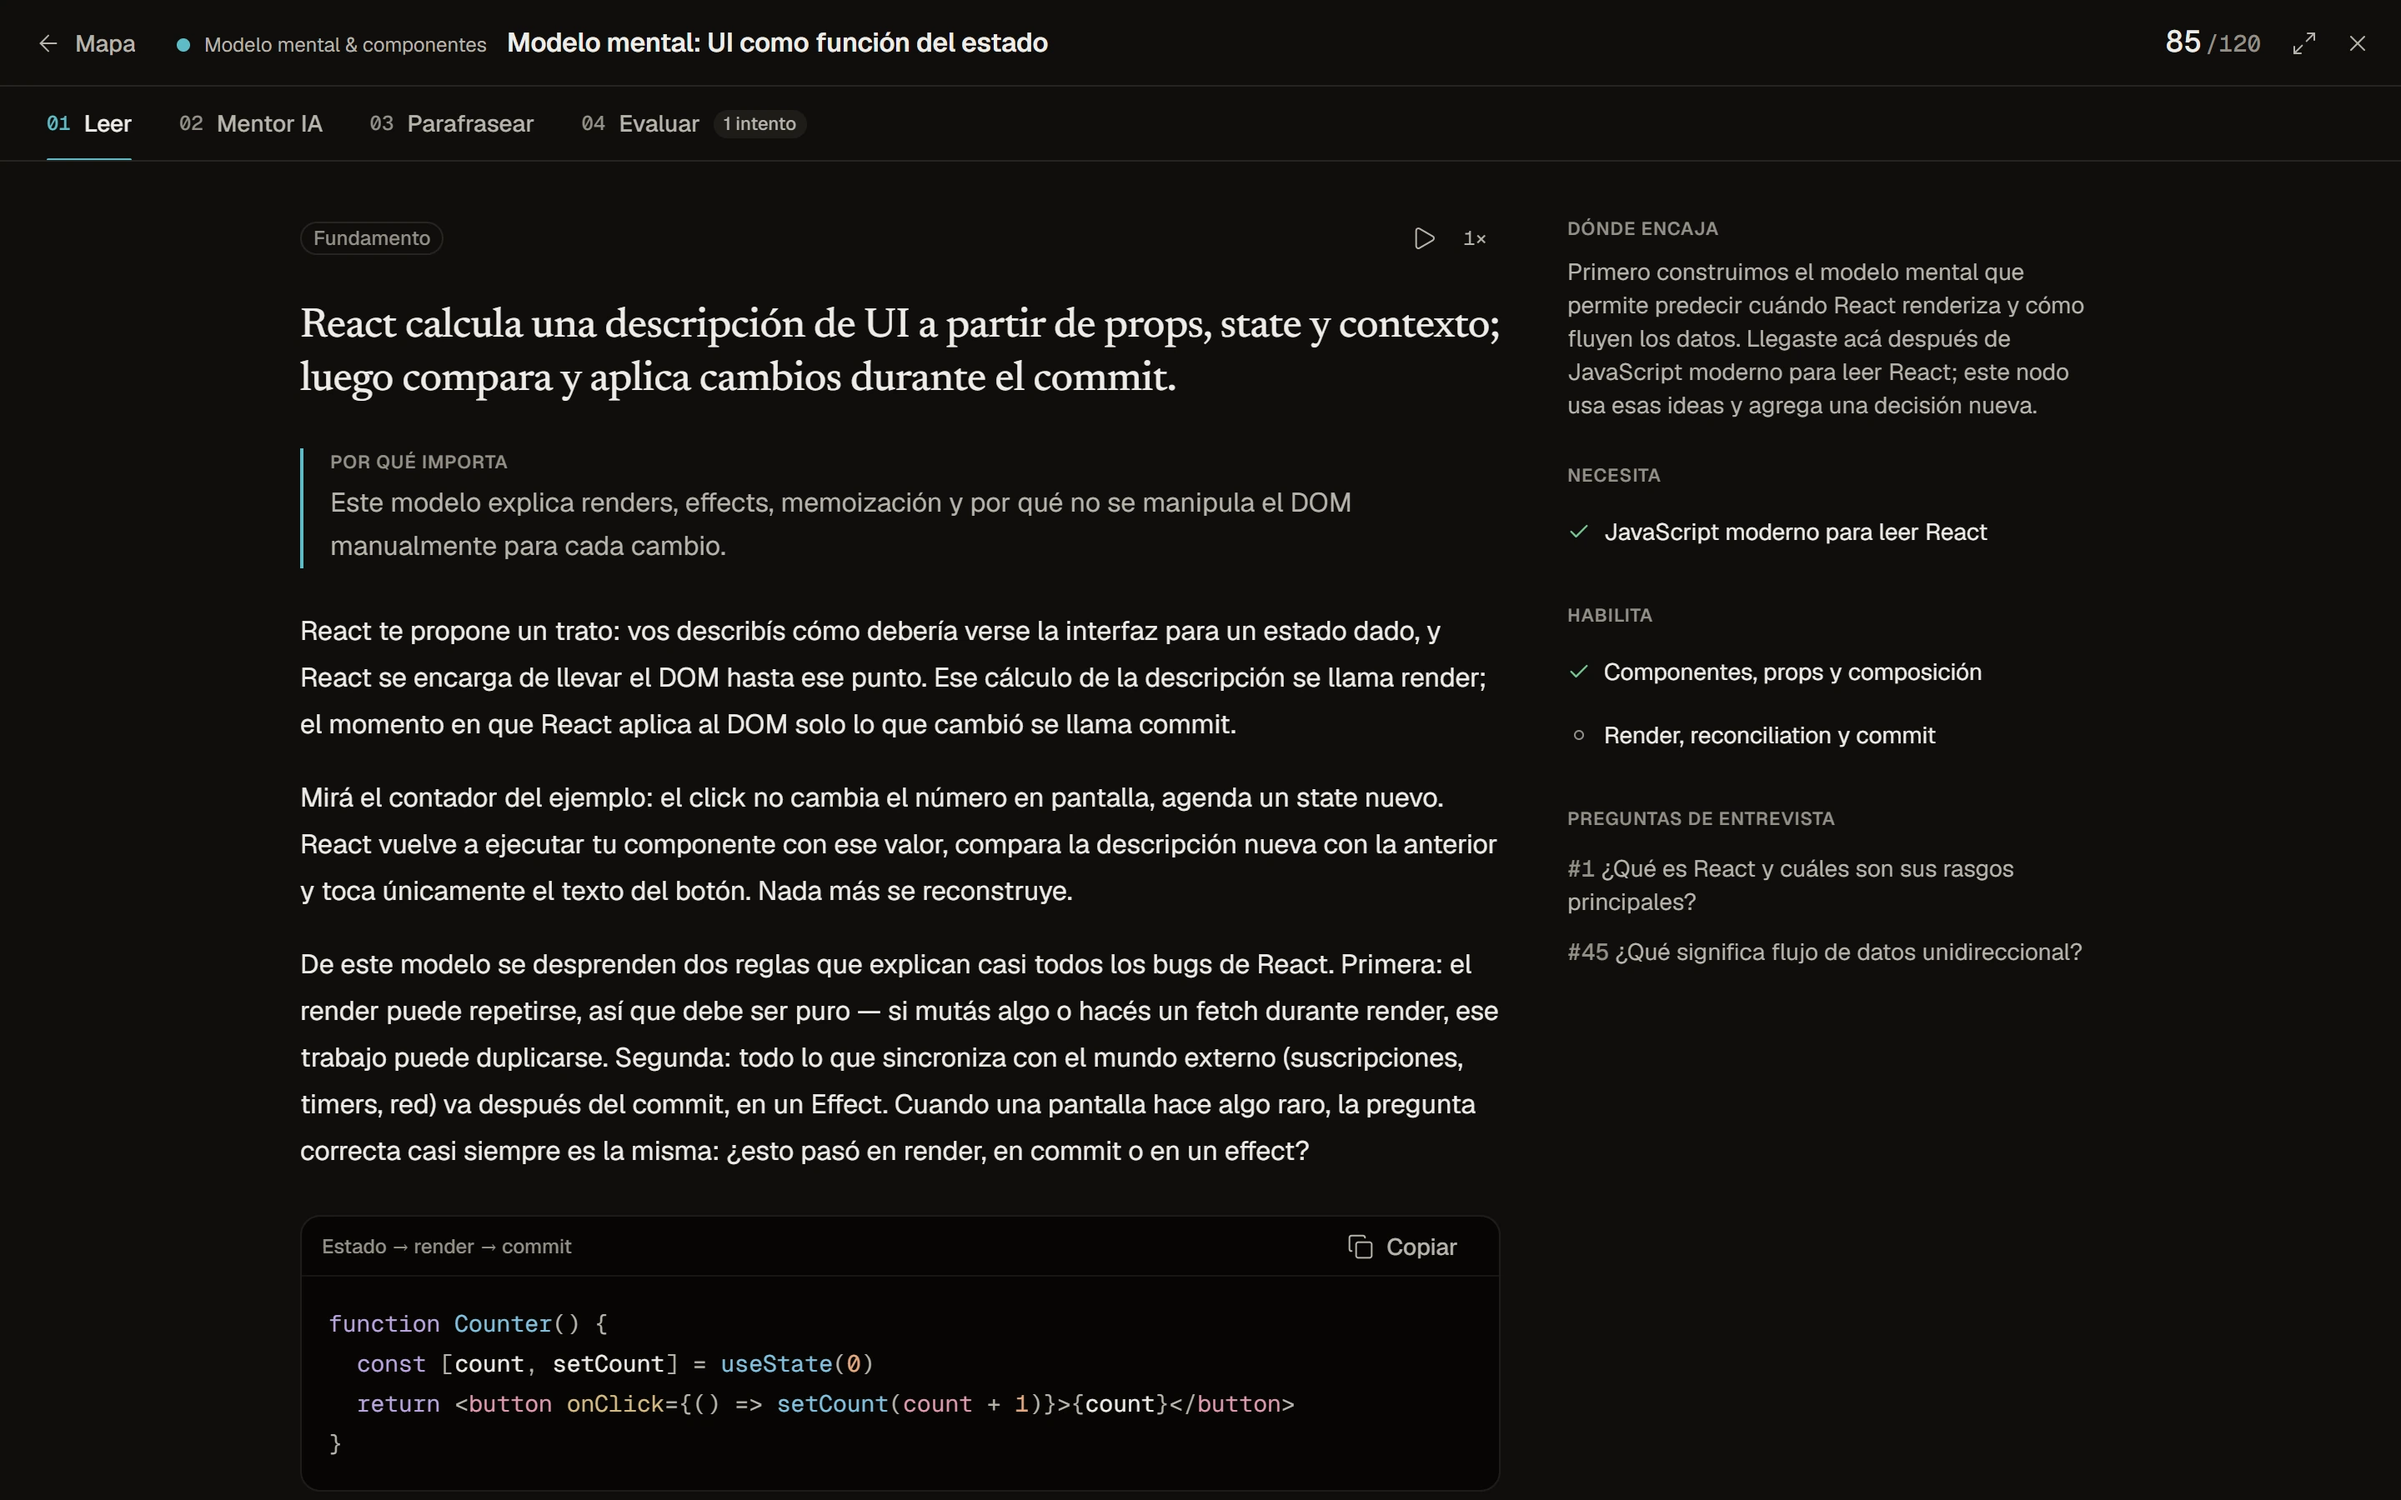
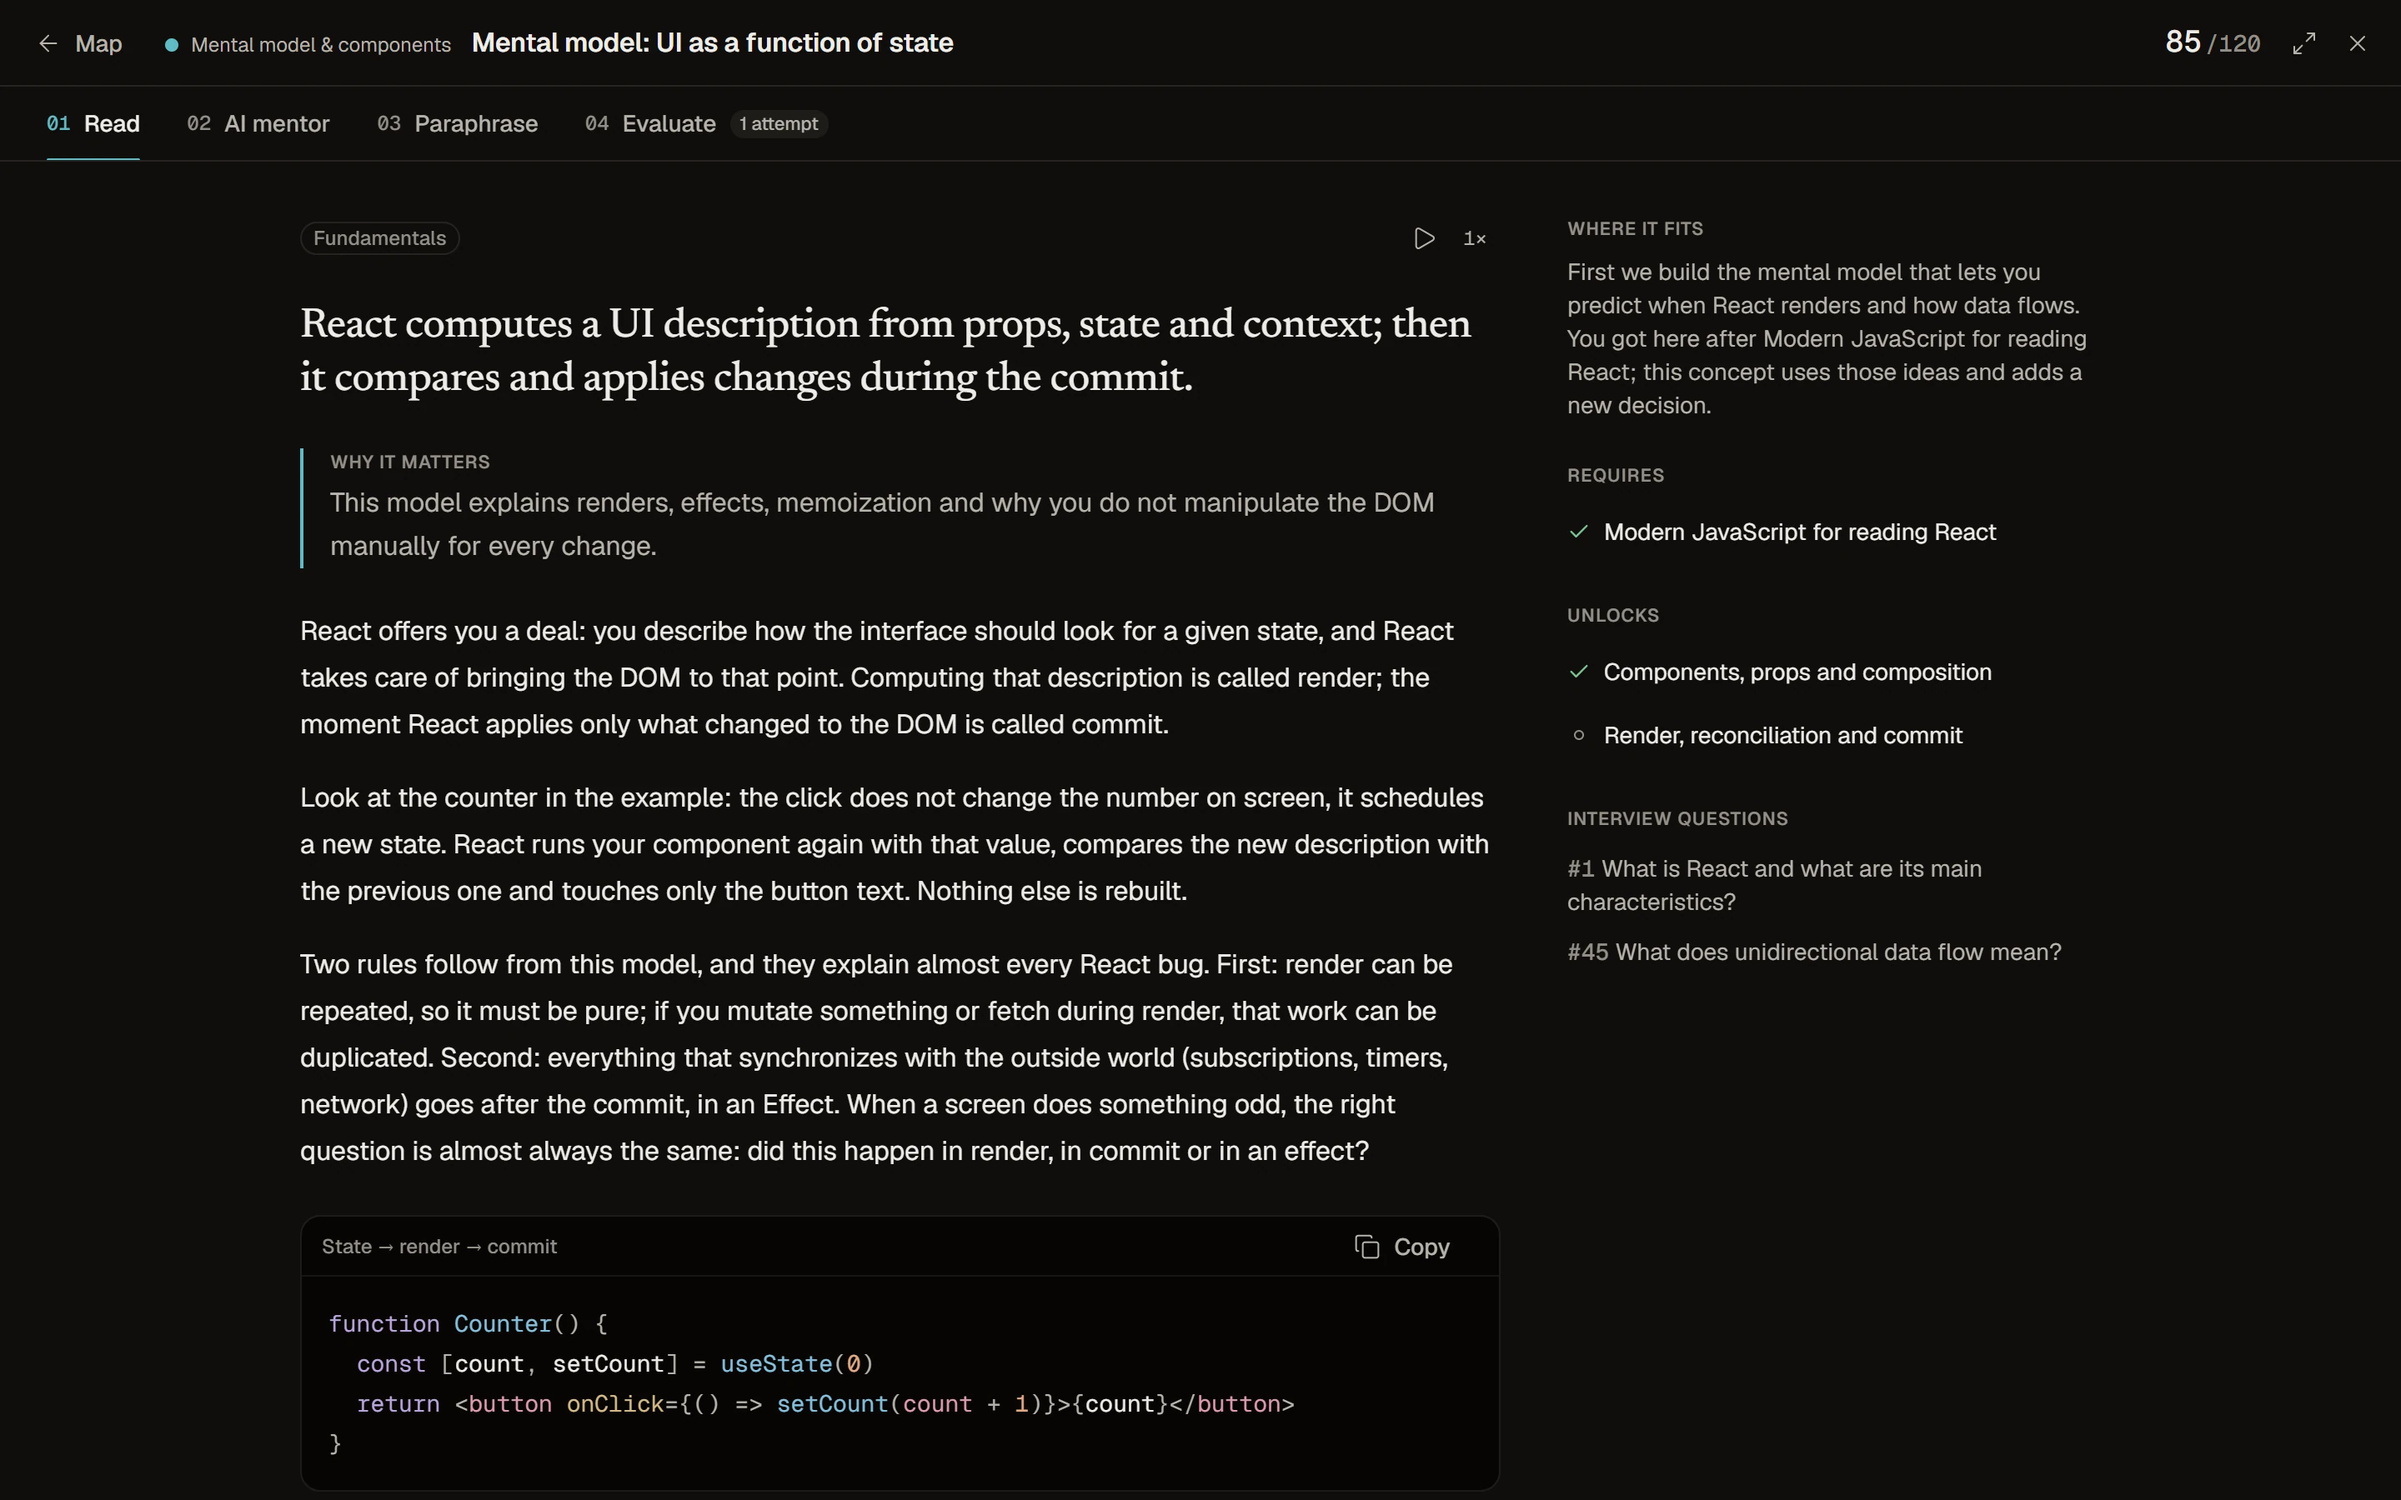
docs(readme): English screenshots and alt text

diff --git a/README.md b/README.md
@@ -4,7 +4,7 @@ A study workspace for senior React and Rails interviews: 142 concepts in a depen
 
 **[Live app](https://know-graph.vercel.app)** · [Case study](https://anderssonfelix.com/work/knowgraph/) · Author: [Felix Andersson](https://anderssonfelix.com)
 
-<img src="docs/screenshots/knowgraph-main.webp" alt="KnowGraph map view. A left sidebar switches between the React and Rails graphs and lists eleven focus areas with mastered counts. The main column shows the suggested route, with the current concept 'Modelo mental: UI como función del estado' and the concepts it unlocks next, followed by concept cards with score bars, two of them scored 105 and 115 out of 120." width="100%">
+<img src="docs/screenshots/knowgraph-main.webp" alt="KnowGraph map view. A left sidebar switches between the React and Rails graphs and lists eleven focus areas with mastered counts. The main column shows the suggested route, with the current concept 'Mental model: UI as a function of state' and the concepts it unlocks next, followed by concept cards with score bars, two of them scored 105 and 115 out of 120." width="100%">
 
 ## What it is
 
@@ -15,17 +15,17 @@ Every concept opens a four-stage session: **Read** the card (explanation, naive 
 <table>
   <tr>
     <td width="50%" valign="top">
-      <img src="docs/screenshots/knowgraph-card.webp" alt="Study session on the Read stage for the concept 'Modelo mental: UI como función del estado'. Tabs for the four stages (Leer, Mentor IA, Parafrasear, Evaluar) run across the top next to a score of 85 out of 120. The reading column has a serif summary, a 'why it matters' callout, body text and a Counter component code sample; a side rail lists where the concept fits, what it needs, what it unlocks and related interview questions." width="100%">
+      <img src="docs/screenshots/knowgraph-card.webp" alt="Study session on the Read stage for the concept 'Mental model: UI as a function of state'. Tabs for the four stages (Read, AI mentor, Paraphrase, Evaluate) run across the top next to a score of 85 out of 120. The reading column has a serif summary, a 'why it matters' callout, body text and a Counter component code sample; a side rail lists where the concept fits, what it needs, what it unlocks and related interview questions." width="100%">
       <br><sub>Study session, Read stage. Tabs for the other three stages sit above the text.</sub>
     </td>
     <td width="50%" valign="top">
-      <img src="docs/screenshots/knowgraph-graph.webp" alt="Graph view of the React curriculum laid out in columns by dependency depth. Hovering 'Lifting state y fuente de verdad' highlights its prerequisite edge from 'useState vs useReducer' and the edges to the two concepts it unlocks; a tooltip names both, and a legend at the bottom explains the suggested route, prerequisite and mastery markers." width="100%">
+      <img src="docs/screenshots/knowgraph-graph.webp" alt="Graph view of the React curriculum laid out in columns by dependency depth. Hovering 'Lifting state and source of truth' highlights its prerequisite edge from 'useState vs useReducer' and the edges to the two concepts it unlocks; a tooltip names both, and a legend at the bottom explains the suggested route, prerequisite and mastery markers." width="100%">
       <br><sub>Dependency graph. Hovering a concept brings its prerequisites and dependents forward.</sub>
     </td>
   </tr>
   <tr>
     <td colspan="2" align="center">
-      <img src="docs/screenshots/knowgraph-progress.webp" alt="Progress view for the React graph: 2 of 101 cards mastered, a note that a card counts as mastered at 100 out of 120, four seniority levels (React profesional, Senior frontend, Senior Design Systems, Frontend Lead) with per-level counts, and a list of milestones, each with its next suggested concept." width="50%">
+      <img src="docs/screenshots/knowgraph-progress.webp" alt="Progress view for the React graph: 2 of 101 cards mastered, a note that a card counts as mastered at 100 out of 120, four seniority levels (Professional React, Senior frontend, Senior Design Systems, Frontend Lead) with per-level counts, and a list of milestones, each with its next suggested concept." width="50%">
       <br><sub>Progress by seniority level and milestone.</sub>
     </td>
   </tr>
